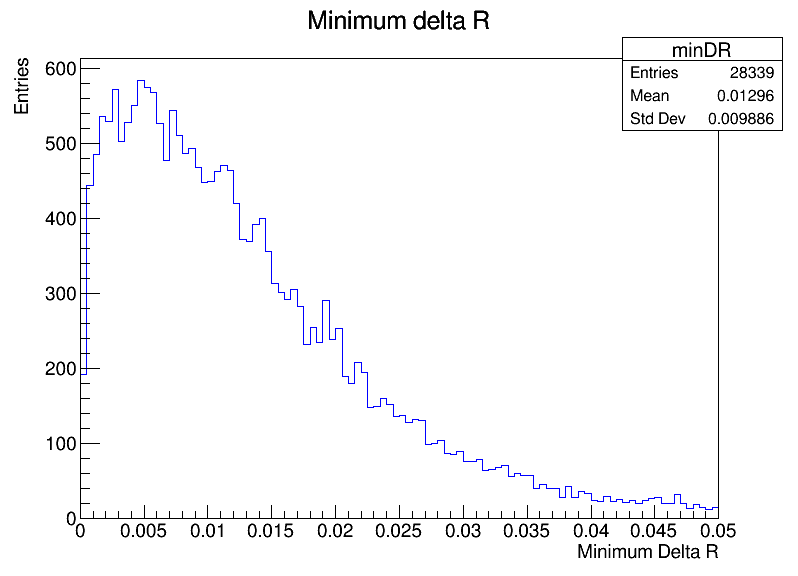
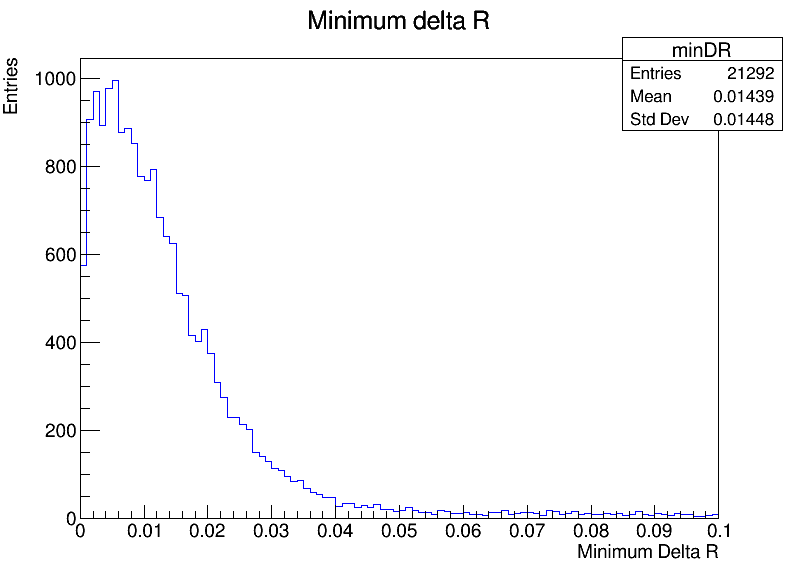
Add files via upload

diff --git a/min_dr_threshold.py b/min_dr_threshold.py
@@ -1,5 +1,4 @@
 import ROOT
-from itertools import combinations
 
 file = ROOT.TFile("miniTree.root")
 tree = file.Get("outtree")
@@ -27,7 +26,7 @@ tree.SetBranchAddress("genPhotonPz", genpho_pz)
 tree.SetBranchAddress("genPi0E", genpi0_e)
 
 # Histograms
-hist_minDR = ROOT.TH1F("minDR", "Minimum delta R", 100, 0, 0.05)
+hist_minDR = ROOT.TH1F("minDR", "Minimum delta R", 100, 0, 0.1)
 hist_energy_ratio = ROOT.TH1F("energy_ratio", "Reco / Gen Photon Energy Ratio", 100, 0, 2)
 
 # Loop over events
@@ -37,45 +36,42 @@ for i in range(tree.GetEntries()):
     reco_photons = []
     gen_photons = []
 
-    # Build reco photon list
+    # Build reco photon list (only store index and TLorentzVector)
     for j in range(pho_e.size()):
         p_reco = ROOT.TLorentzVector(pho_px[j], pho_py[j], pho_pz[j], pho_e[j])
-        reco_photons.append((p_reco, pho_e[j]))
+        reco_photons.append(p_reco)
 
-    # Build gen photon list
+    # Build gen photon list (only store index and TLorentzVector)
     for j in range(genpho_e.size()):
         p_gen = ROOT.TLorentzVector(genpho_px[j], genpho_py[j], genpho_pz[j], genpho_e[j])
-        gen_photons.append((p_gen, genpho_e[j]))
-
-    used_gen = set()
-
-    for p_reco, e_reco in reco_photons:
-        # Skip if no gen photons in event
+        gen_photons.append(p_gen)
+  
+    pairs = []
+    used_gen = []
+    
+    for i in range(len(reco_photons)):
+        dR = []
+        p_reco = reco_photons[i]
         if len(gen_photons) == 0:
             continue
-
-        min_dr = float("inf")
-        best_gen_idx = -1
-
-        # Find best match by ΔR
-        for idx, (p_gen, e_gen) in enumerate(gen_photons):
-            if idx in used_gen:
-                continue
+        for j in range(len(gen_photons)):
+            p_gen = gen_photons[j]
             dr = p_reco.DeltaR(p_gen)
-            if dr < min_dr:
-                min_dr = dr
-                best_gen_idx = idx
+            dR.append(dr)
+        min_dr = min(dR)
+        index_gen = dR.index(min_dr)
+        if dr > 0.04:
+            continue
+        if index_gen in used_gen:
+            continue
+        pairs.append((p_reco,gen_photons[index_gen]))
+        used_gen.append(index_gen)
 
-        # Fill min ΔR histogram
-        hist_minDR.Fill(min_dr)
-
-        # Fill energy ratio histogram if match found
-        if best_gen_idx != -1:
-            e_gen = gen_photons[best_gen_idx][1]
-            if e_gen > 0:
-                energy_ratio = e_reco / e_gen
-                hist_energy_ratio.Fill(energy_ratio)
-                used_gen.add(best_gen_idx)
+    for reco, gen in pairs:
+        dr = reco.DeltaR(gen)
+        hist_minDR.Fill(dr)
+        e_ratio = reco.E() / gen.E() if gen.E() >0 else 0
+        hist_energy_ratio.Fill(e_ratio)
 
 # Draw and save ΔR histogram
 canvas = ROOT.TCanvas("canvas", "Minimum Delta R Histogram", 800, 600)
@@ -101,3 +97,9 @@ out_file.Close()
 
 # Close input file
 file.Close()
+# Close input file
+file.Close()
+file.Close()
+# Close input file
+file.Close()
+
